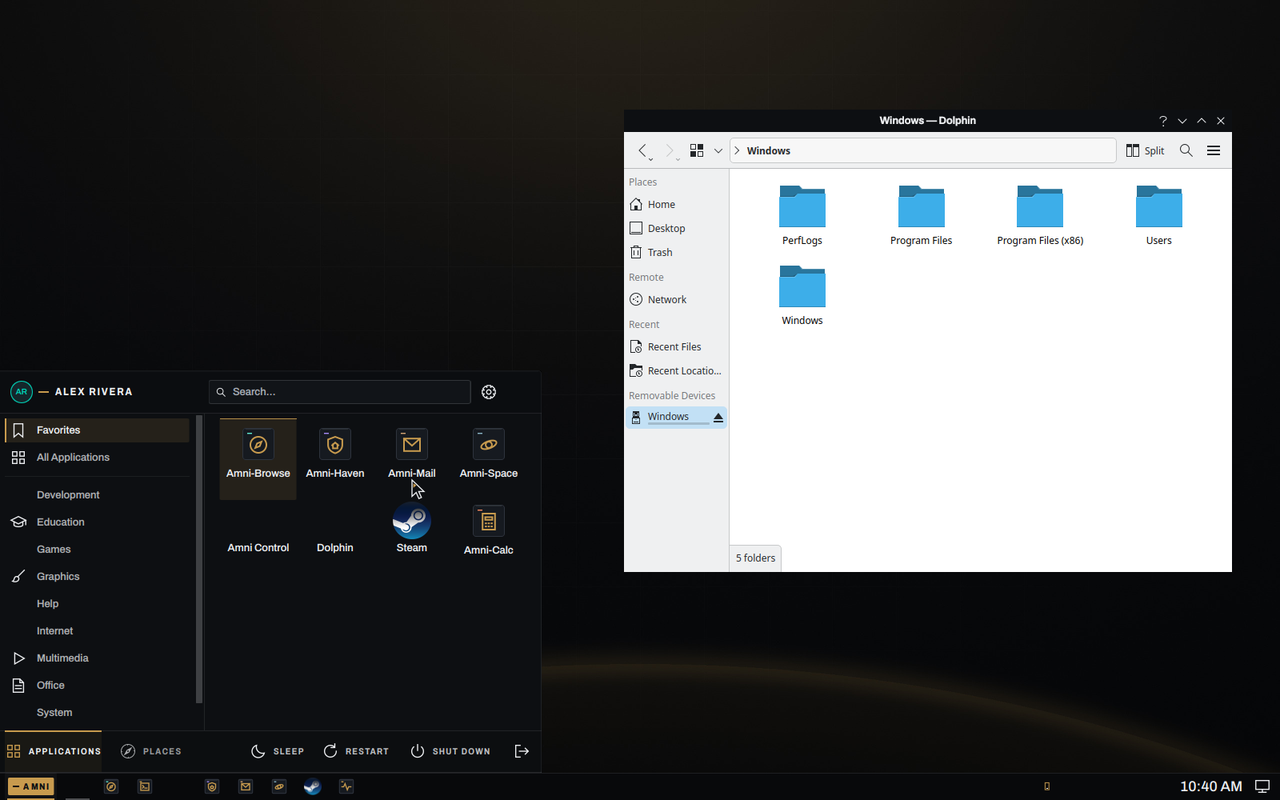
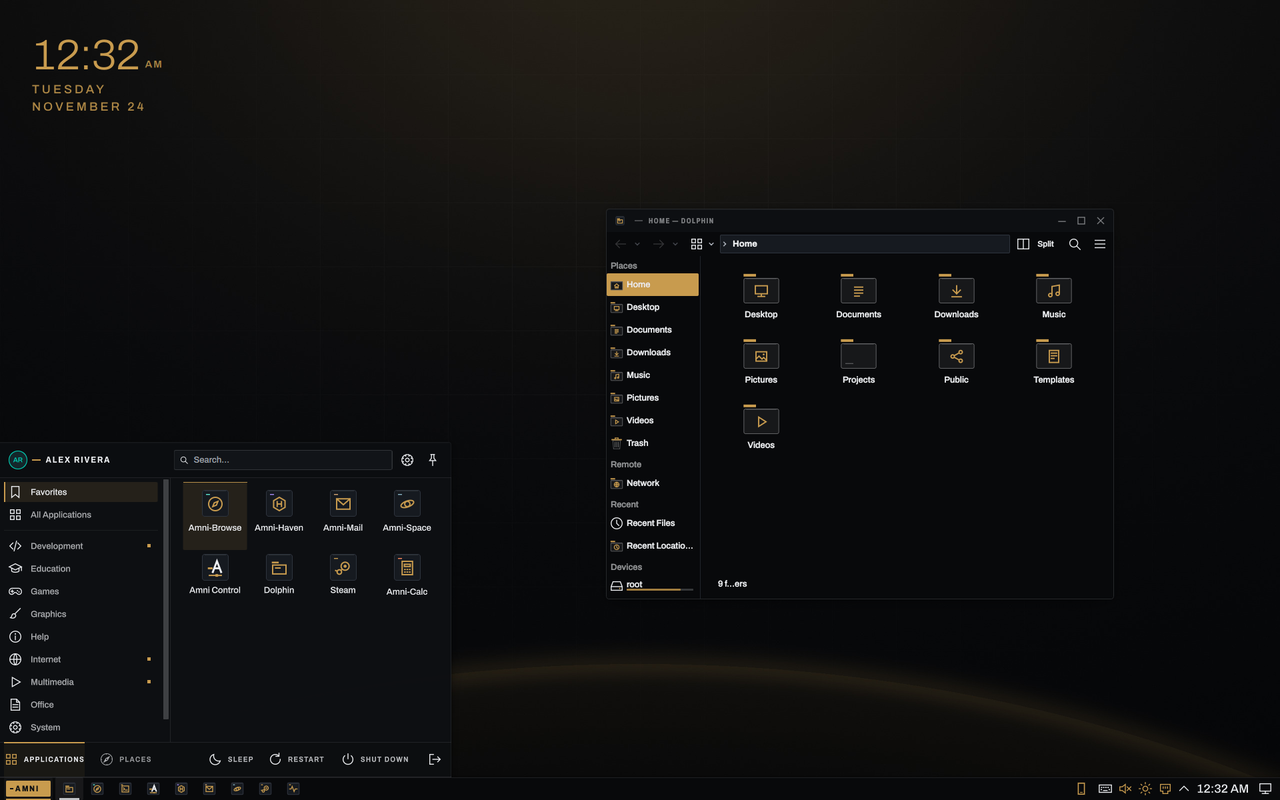
Amni OS page: fix layout, real 0.5 screenshots, updater X11 conflict fix
Screenshot sections use a lead grid with three real captures each from a fresh 0.5.0 install. The update block is plain section markup with a copyable command. The updater removes plasma-x11-session when the new plasma-workspace conflicts with it, and reports failed upgrades instead of claiming success.

diff --git a/amni-os.html b/amni-os.html
@@ -11,17 +11,17 @@
 <meta property="og:description" content="Arch + Plasma 6. Start menu, Steam, Wine, local AI, Amni-Browse.">
 <meta property="og:type" content="website">
 <meta property="og:url" content="https://amni-scient.com/amni-os">
-<meta property="og:image" content="https://amni-scient.com/assets/os/desktop.png?v=20260922">
+<meta property="og:image" content="https://amni-scient.com/assets/os/desktop.png?v=20261124">
 <meta property="og:image:width" content="1280">
 <meta property="og:image:height" content="800">
 <meta name="twitter:card" content="summary_large_image">
 <meta name="twitter:title" content="Amni OS &mdash; Leave Windows without learning a shell">
 <meta name="twitter:description" content="Arch + Plasma 6. Start menu, Steam, Wine, local AI, Amni-Browse.">
-<meta name="twitter:image" content="https://amni-scient.com/assets/os/desktop.png?v=20260922">
+<meta name="twitter:image" content="https://amni-scient.com/assets/os/desktop.png?v=20261124">
 <link rel="canonical" href="https://amni-scient.com/amni-os">
 <script type="application/ld+json">{"@context":"https://schema.org","@type":"SoftwareApplication","name":"Amni OS","url":"https://amni-scient.com/amni-os","description":"Arch + Plasma 6 desktop for people leaving Windows.","applicationCategory":"OperatingSystem","operatingSystem":"Linux","offers":{"@type":"Offer","price":"0","priceCurrency":"USD"},"author":{"@type":"Organization","name":"Amniscient, LLC","url":"https://amni-scient.com"}}</script>
 <link rel="stylesheet" href="css/style.css?v=b268">
-<link rel="stylesheet" href="css/shots.css?v=2">
+<link rel="stylesheet" href="css/shots.css?v=3">
 <style>
 .os-grid{grid-template-columns:repeat(3,1fr)}
 @media(max-width:800px){.os-grid{grid-template-columns:repeat(2,1fr)}}
@@ -124,17 +124,17 @@
 <section id="desktop">
 <h2>DESKTOP</h2>
 <p class="lede">Start menu, bottom bar, double-click. Steam, Wine and a local AI model are already on it.</p>
-<div class="shots"><figure><img src="assets/os/page/desktop.webp" width="1200" height="750" alt="The Amni OS desktop with the start menu and dock" loading="lazy"><figcaption>Feels familiar</figcaption></figure></div>
+<div class="shots lead"><figure><img src="assets/os/page/desktop.webp" width="1600" height="1000" alt="The Amni OS desktop with the start menu and the Dolphin file manager open" loading="lazy"><figcaption>Feels familiar</figcaption></figure><figure><img src="assets/os/page/games.webp" width="816" height="510" alt="The Games menu with Steam, Lutris and ProtonPlus" loading="lazy"><figcaption>Steam, Lutris and more</figcaption></figure><figure><img src="assets/os/page/welcome.webp" width="1600" height="1000" alt="The Amni OS welcome tour on first sign-in" loading="lazy"><figcaption>A two-minute welcome tour</figcaption></figure></div>
 </section>
 <section id="control">
 <h2>CONTROL</h2>
 <p class="lede">Drivers, updates, printers, restore points and colors in one place.</p>
-<div class="shots"><figure><img src="assets/os/page/control.webp" width="1200" height="750" alt="Amni OS Control with update and driver settings" loading="lazy"><figcaption>One place for settings</figcaption></figure></div>
+<div class="shots lead"><figure><img src="assets/os/page/control.webp" width="1248" height="780" alt="The Amni Control home page with shortcuts for apps, AI tools, graphics and updates" loading="lazy"><figcaption>One place for settings</figcaption></figure><figure><img src="assets/os/page/gaming.webp" width="1248" height="780" alt="The Amni Control gaming page with Steam, ProtonPlus, Lutris and Bottles" loading="lazy"><figcaption>Gaming</figcaption></figure><figure><img src="assets/os/page/windows.webp" width="1248" height="780" alt="The Amni Control page for running Windows programs" loading="lazy"><figcaption>Windows programs</figcaption></figure></div>
 </section>
 <section id="install">
 <h2>INSTALL</h2>
 <p class="lede">Installs next to Windows. Windows stays in the boot menu.</p>
-<div class="shots"><figure><img src="assets/os/page/installer.webp" width="1200" height="750" alt="The Amni OS installer welcome screen" loading="lazy"><figcaption>Click Install</figcaption></figure></div>
+<div class="shots lead"><figure><img src="assets/os/page/installer.webp" width="1600" height="1000" alt="The Amni OS installer welcome screen" loading="lazy"><figcaption>Click Install</figcaption></figure><figure><img src="assets/os/page/installer-slides.webp" width="1040" height="650" alt="The installer copying files, with a slide about privacy" loading="lazy"><figcaption>Tips while it copies</figcaption></figure><figure><img src="assets/os/page/signin.webp" width="1600" height="1000" alt="The Amni OS sign-in screen" loading="lazy"><figcaption>Sign in and go</figcaption></figure></div>
 </section>
 <section id="get">
 <h2>GET IT</h2>
@@ -143,30 +143,19 @@
 </section>
 <section id="update">
 <h2>UPDATE &amp; REPAIR</h2>
-<div class="ptile">
-<div class="ptile-copy">
-<p class="ptile-line">Already running Amni OS? Update it here. Older install with broken update links or expired keys? This fixes that too.</p>
-<ul class="ptile-feats">
+<p class="lede">Already running Amni OS? Update it here. Older install with broken update links or expired keys? This fixes that too.</p>
+<ul class="feats">
 <li>Clears out leftovers from updates that were interrupted</li>
 <li>Fixes download servers that stopped working</li>
 <li>Renews expired security keys that updates are checked against</li>
 <li>Updates the system, graphics drivers and apps</li>
 </ul>
-<div class="cta-row" style="margin-top:1.5rem;gap:0.75rem;flex-wrap:wrap">
+<div class="dl">
 <a href="update.sh" download="update-amni-os.sh" class="btn btn-primary" id="btn-update-download" onclick="onUpdateClick()">DOWNLOAD UPDATER</a>
 <a href="amni-update.desktop" download="Update-Amni-OS.desktop" class="btn btn-outline">DESKTOP LAUNCHER</a>
-<button class="btn btn-outline" type="button" onclick="copyUpdateCmd()" id="btn-copy-cmd">COPY TERMINAL COMMAND</button>
 </div>
-<div style="margin-top:1.25rem;background:rgba(0,0,0,0.25);border:1px solid rgba(200,155,78,0.25);border-radius:8px;padding:0.85rem 1.15rem;display:flex;align-items:center;justify-content:space-between;gap:1rem">
-<code id="update-cmd-text" style="font-family:'Cascadia Code',monospace;font-size:0.85rem;color:#C89B4E;word-break:break-all">curl -fsSL https://amni-scient.com/update | bash</code>
-<button type="button" class="btn" style="padding:0.4rem 0.85rem;font-size:0.75rem;flex-shrink:0" onclick="copyUpdateCmd()" id="btn-copy-tag">COPY</button>
-</div>
-<p style="color:var(--dim);font-size:0.85rem;margin-top:0.85rem">
-Paste it into a terminal (press <kbd style="background:rgba(255,255,255,0.08);padding:2px 6px;border-radius:4px">Ctrl</kbd>+<kbd style="background:rgba(255,255,255,0.08);padding:2px 6px;border-radius:4px">Alt</kbd>+<kbd style="background:rgba(255,255,255,0.08);padding:2px 6px;border-radius:4px">T</kbd>) or double-click the downloaded updater. It asks for root permission on its own, then repairs and upgrades the entire OS.
-</p>
-</div>
-
-</div>
+<div class="cmd"><code id="update-cmd-text">curl -fsSL https://amni-scient.com/update | bash</code><button type="button" class="btn btn-outline" onclick="copyUpdateCmd()" id="btn-copy-tag">COPY</button></div>
+<p class="note">Paste it into a terminal (<kbd>Ctrl</kbd>+<kbd>Alt</kbd>+<kbd>T</kbd>) or double-click the downloaded updater. It asks for root permission on its own, then repairs and upgrades the whole OS.</p>
 </section>
 <section id="docs">
 <h2>DOCS</h2>

diff --git a/css/shots.css b/css/shots.css
@@ -10,3 +10,7 @@
 .faq{margin-top:1.4rem;max-width:860px}.faq details{border:1px solid var(--border);border-radius:var(--radius);padding:.85rem 1.1rem;margin-top:.7rem;background:var(--panel)}.faq summary{cursor:pointer;font-weight:700;color:var(--text);font-size:.92rem}.faq details p{margin-top:.6rem;color:var(--dim);font-size:.88rem;line-height:1.7}
 #lb{padding:0;border:0;background:transparent;max-width:96vw;max-height:94vh;overflow:visible}#lb::backdrop{background:rgba(0,0,0,.82)}#lb img{display:block;max-width:96vw;max-height:94vh;width:auto;height:auto;border-radius:6px;cursor:zoom-out}
 .shots.p9{grid-template-columns:repeat(auto-fill,minmax(min(100%,150px),1fr));max-width:1080px}.shots.p9 img{aspect-ratio:9/16}
+.shots.lead{grid-template-columns:repeat(2,minmax(0,1fr))}.shots.lead figure:first-child{grid-column:1/-1}@media(max-width:600px){.shots.lead{grid-template-columns:1fr}}
+.feats{list-style:none;margin:0 0 1.4rem;padding:0;display:grid;grid-template-columns:repeat(auto-fill,minmax(min(100%,300px),1fr));gap:.7rem 1.4rem;max-width:860px}.feats li{position:relative;padding-left:1.2rem;font-size:.92rem;color:var(--text);line-height:1.5}.feats li::before{content:"";position:absolute;left:0;top:.5em;width:7px;height:7px;background:var(--accent)}
+.cmd{display:flex;align-items:center;gap:.7rem;max-width:720px;margin-top:1.2rem;padding:.55rem .55rem .55rem 1.1rem;background:var(--panel);border:1px solid var(--border);border-radius:var(--radius)}.cmd code{flex:1;min-width:0;font-family:var(--font-mono);font-size:.88rem;color:var(--text);overflow-wrap:anywhere}.cmd .btn{flex-shrink:0;padding:.45rem .9rem;font-size:.72rem}
+kbd{font-family:var(--font-mono);font-size:.8em;padding:.1rem .4rem;border:1px solid var(--border);border-radius:4px;background:var(--panel)}

diff --git a/amni-os/docs/troubleshooting.html b/amni-os/docs/troubleshooting.html
@@ -10,7 +10,7 @@
 <meta property="og:description" content="Fixes for common Amni OS problems: black screen at boot, Secure Boot errors, Wi-Fi, updates, sound, Bluetooth and sharing.">
 <meta property="og:type" content="article">
 <meta property="og:url" content="https://amni-scient.com/amni-os/docs/troubleshooting">
-<meta property="og:image" content="https://amni-scient.com/assets/os/desktop.png?v=20260922">
+<meta property="og:image" content="https://amni-scient.com/assets/os/desktop.png?v=20261124">
 <link rel="canonical" href="https://amni-scient.com/amni-os/docs/troubleshooting">
 <link rel="icon" href="/favicon.ico" sizes="any">
 <link rel="icon" href="/favicon.svg" type="image/svg+xml">

diff --git a/amni-os/docs/restore-points.html b/amni-os/docs/restore-points.html
@@ -10,7 +10,7 @@
 <meta property="og:description" content="Amni OS takes Btrfs snapshots around every update. Boot an older state from the menu, and undo a bad update with Snapper.">
 <meta property="og:type" content="article">
 <meta property="og:url" content="https://amni-scient.com/amni-os/docs/restore-points">
-<meta property="og:image" content="https://amni-scient.com/assets/os/desktop.png?v=20260922">
+<meta property="og:image" content="https://amni-scient.com/assets/os/desktop.png?v=20261124">
 <link rel="canonical" href="https://amni-scient.com/amni-os/docs/restore-points">
 <link rel="icon" href="/favicon.ico" sizes="any">
 <link rel="icon" href="/favicon.svg" type="image/svg+xml">

diff --git a/amni-os/privacy.html b/amni-os/privacy.html
@@ -10,7 +10,7 @@
 <meta property="og:description" content="Amni OS sends no usage data. The network connections it makes are update checks, package downloads and the ones you start.">
 <meta property="og:type" content="article">
 <meta property="og:url" content="https://amni-scient.com/amni-os/privacy">
-<meta property="og:image" content="https://amni-scient.com/assets/os/desktop.png?v=20260922">
+<meta property="og:image" content="https://amni-scient.com/assets/os/desktop.png?v=20261124">
 <link rel="canonical" href="https://amni-scient.com/amni-os/privacy">
 <link rel="icon" href="/favicon.ico" sizes="any">
 <link rel="icon" href="/favicon.svg" type="image/svg+xml">

diff --git a/amni-os/docs/faq.html b/amni-os/docs/faq.html
@@ -10,7 +10,7 @@
 <meta property="og:description" content="Common questions about Amni OS: Arch compatibility, updates, Windows dual boot, Secure Boot, games, apps and privacy.">
 <meta property="og:type" content="article">
 <meta property="og:url" content="https://amni-scient.com/amni-os/docs/faq">
-<meta property="og:image" content="https://amni-scient.com/assets/os/desktop.png?v=20260922">
+<meta property="og:image" content="https://amni-scient.com/assets/os/desktop.png?v=20261124">
 <link rel="canonical" href="https://amni-scient.com/amni-os/docs/faq">
 <link rel="icon" href="/favicon.ico" sizes="any">
 <link rel="icon" href="/favicon.svg" type="image/svg+xml">

diff --git a/amni-os/docs/index.html b/amni-os/docs/index.html
@@ -10,7 +10,7 @@
 <meta property="og:description" content="Install Amni OS: download and verify the ISO with minisign, write the USB, Secure Boot, and the Calamares installer.">
 <meta property="og:type" content="article">
 <meta property="og:url" content="https://amni-scient.com/amni-os/docs/">
-<meta property="og:image" content="https://amni-scient.com/assets/os/desktop.png?v=20260922">
+<meta property="og:image" content="https://amni-scient.com/assets/os/desktop.png?v=20261124">
 <link rel="canonical" href="https://amni-scient.com/amni-os/docs/">
 <link rel="icon" href="/favicon.ico" sizes="any">
 <link rel="icon" href="/favicon.svg" type="image/svg+xml">

diff --git a/amni-os/docs/drivers.html b/amni-os/docs/drivers.html
@@ -10,7 +10,7 @@
 <meta property="og:description" content="How Amni OS detects your hardware and installs graphics and device drivers from drivers.json rules.">
 <meta property="og:type" content="article">
 <meta property="og:url" content="https://amni-scient.com/amni-os/docs/drivers">
-<meta property="og:image" content="https://amni-scient.com/assets/os/desktop.png?v=20260922">
+<meta property="og:image" content="https://amni-scient.com/assets/os/desktop.png?v=20261124">
 <link rel="canonical" href="https://amni-scient.com/amni-os/docs/drivers">
 <link rel="icon" href="/favicon.ico" sizes="any">
 <link rel="icon" href="/favicon.svg" type="image/svg+xml">

diff --git a/amni-os/docs/release-notes.html b/amni-os/docs/release-notes.html
@@ -10,7 +10,7 @@
 <meta property="og:description" content="Every Amni OS change, newest first, generated from the Amni OS changelog.">
 <meta property="og:type" content="article">
 <meta property="og:url" content="https://amni-scient.com/amni-os/docs/release-notes">
-<meta property="og:image" content="https://amni-scient.com/assets/os/desktop.png?v=20260922">
+<meta property="og:image" content="https://amni-scient.com/assets/os/desktop.png?v=20261124">
 <link rel="canonical" href="https://amni-scient.com/amni-os/docs/release-notes">
 <link rel="icon" href="/favicon.ico" sizes="any">
 <link rel="icon" href="/favicon.svg" type="image/svg+xml">

diff --git a/amni-os/support.html b/amni-os/support.html
@@ -10,7 +10,7 @@
 <meta property="og:description" content="Get help with Amni OS: the Haven community, GitHub issues, and amni-bug-info for bug reports.">
 <meta property="og:type" content="article">
 <meta property="og:url" content="https://amni-scient.com/amni-os/support">
-<meta property="og:image" content="https://amni-scient.com/assets/os/desktop.png?v=20260922">
+<meta property="og:image" content="https://amni-scient.com/assets/os/desktop.png?v=20261124">
 <link rel="canonical" href="https://amni-scient.com/amni-os/support">
 <link rel="icon" href="/favicon.ico" sizes="any">
 <link rel="icon" href="/favicon.svg" type="image/svg+xml">
